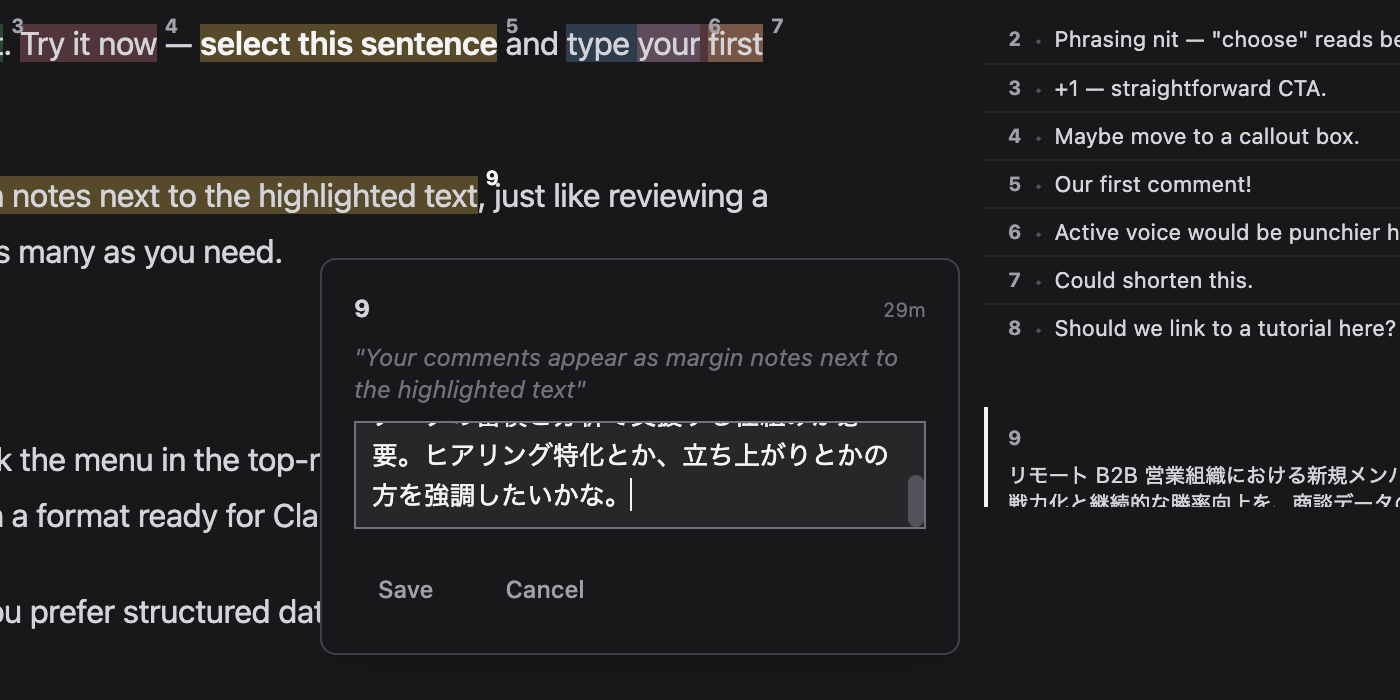
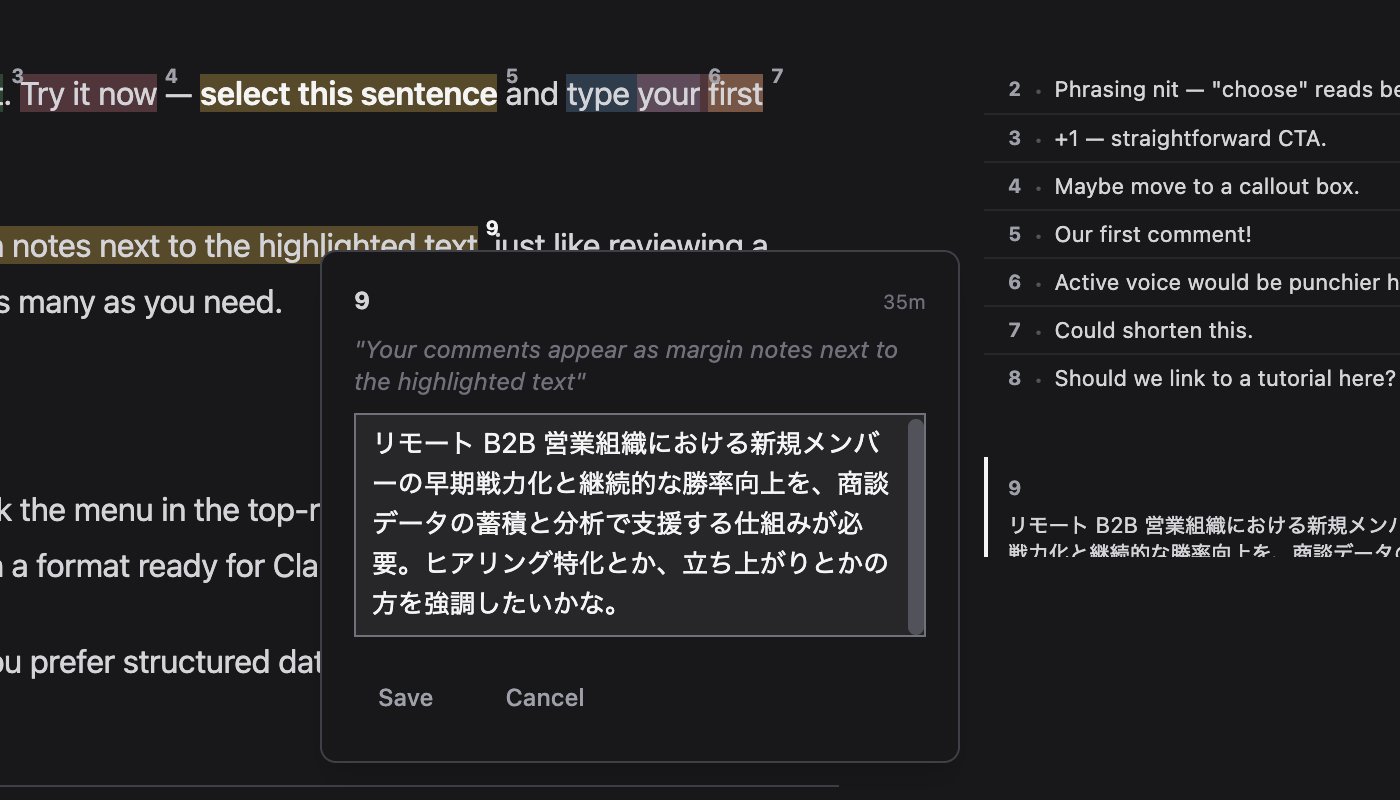
feat: auto-grow InlineEditor textarea to fit content
Defaulting the popover to edit mode (previous commit) helps when the user
wants to edit, but with a fixed 2-row textarea the rest of a long comment
was hidden behind an internal scrollbar — actively worse than read mode
for the read-only path.

InlineEditor's textarea now resizes itself to its scrollHeight on every
change (and on mount), capped at max-h-[60vh] with internal scrolling
past that. The min stays at the existing rows prop, so empty editors
still look like textareas.

diff --git a/src/components/InlineEditor.svelte b/src/components/InlineEditor.svelte
@@ -33,6 +33,14 @@ $effect(() => {
   textareaEl?.focus();
 });
 
+$effect(() => {
+  const el = textareaEl;
+  if (!el) return;
+  void editText;
+  el.style.height = "auto";
+  el.style.height = `${el.scrollHeight}px`;
+});
+
 function handleSave() {
   if (editText.trim()) {
     onsave(editText);
@@ -55,7 +63,7 @@ function handleKeydown(e: KeyboardEvent) {
     bind:value={editText}
     class={cn(
       fontClass,
-      "w-full px-2 py-1.5 text-sm border border-zinc-200 dark:border-zinc-700 dark:bg-zinc-800 resize-none focus:outline-none focus:border-zinc-400 dark:focus:border-zinc-500",
+      "w-full px-2 py-1.5 text-sm border border-zinc-200 dark:border-zinc-700 dark:bg-zinc-800 resize-none overflow-y-auto max-h-[60vh] focus:outline-none focus:border-zinc-400 dark:focus:border-zinc-500",
       className,
     )}
     {rows}
